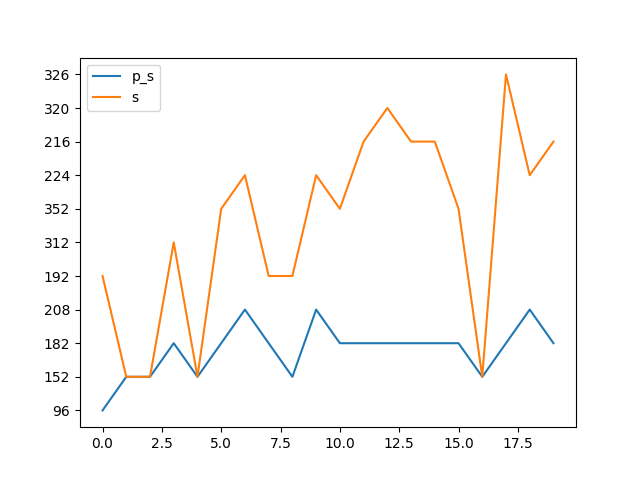
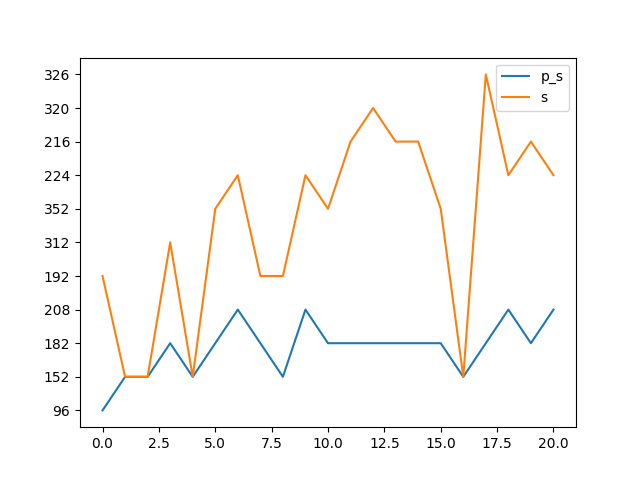
0x0014

diff --git a/benchmark.md b/benchmark.md
@@ -40,6 +40,8 @@ Synthesising 0x0012 pexact:208 r=4 exact:224 r=3
 
 Synthesising 0x0013 pexact:182 r=4 exact:216 r=3
 
+Synthesising 0x0014 pexact:208 r=4 exact:224 r=3
+
 <img src=benchmark_r.png? width=400 heigth=400>
 
 <img src=benchmark_s.png? width=400 heigth=400>
